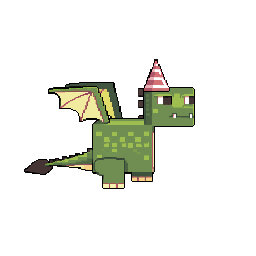
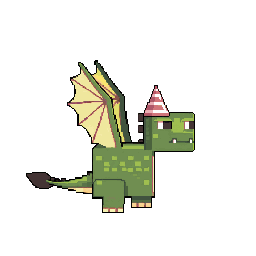
Give the dragon a real wing beat and put four flames on the cherries
The old flap frames barely moved. These interpolate from the wings
spread out to a wings raised pose and play back down again, so the
wings sweep through a full beat. In the source art the body sinks as
the wings rise, which would drift the dragon away from its hitbox, so
each frame is anchored by its feet and only the wings travel.

The card now has four flames instead of seven, one on each corner
cherry, positioned from the cherry centres measured off cake.png.

Claude-Session: https://claude.ai/code/session_01PqLBVuxSQTGRvrFNQ3TZis

Changed region(s): [[0.0938, 0.2188, 0.7812, 0.8438]]

diff --git a/js/game.js b/js/game.js
@@ -556,7 +556,23 @@ var Game = (function () {
         box.h = bottom - box.y;
       }
     }
-    dragonAnim = { names: names, box: box };
+
+    /* The wings rise out of the top of the frame, and in the source art
+       the body sinks as they go. Anchor every frame by its feet so the
+       body stays put under the hitbox and only the wings move. */
+    var feet = [];
+    for (i = 0; i < names.length; i++) {
+      var fb = Sprites.bounds(names[i]);
+      feet.push(fb ? (fb.y + fb.h) - box.h : box.y);
+    }
+    /* The frames run from wings out to wings raised, so play them up and
+       back down again for a full beat instead of snapping back to the
+       start. The two end poses are not repeated at the turnaround. */
+    var seq = [];
+    for (i = 0; i < names.length; i++) seq.push(i);
+    for (i = names.length - 2; i > 0; i--) seq.push(i);
+
+    dragonAnim = { names: names, box: box, seq: seq, feet: feet };
     return dragonAnim;
   }
 
@@ -564,14 +580,22 @@ var Game = (function () {
     var anim = dragonFrames();
     if (anim && anim.box) {
       var box = anim.box;
-      var h = 66;
+      /* the box is tall enough for the raised wings, so scale up to keep
+         the body itself the size it was before the wings could lift */
+      var h = 86;
       var w = h * (box.w / box.h);
-      var fps = mode === "play" ? 14 : 9;
-      var sp = Sprites.get(anim.names[Math.floor(t * fps) % anim.names.length]);
+      /* about two full wing beats a second in flight, a little lazier
+         while he is hovering waiting to start */
+      var fps = mode === "play" ? 24 : 16;
+      var seq = anim.seq;
+      var frame = seq[Math.floor(t * fps) % seq.length];
+      var sp = Sprites.get(anim.names[frame]);
       ctx.save();
       ctx.translate(dragonX(), dragon.y);
       ctx.rotate(dragon.rot);
-      if (sp) ctx.drawImage(sp, box.x, box.y, box.w, box.h, -w / 2, -h / 2, w, h);
+      if (sp) {
+        ctx.drawImage(sp, box.x, anim.feet[frame], box.w, box.h, -w / 2, -h / 2, w, h);
+      }
       ctx.restore();
       return;
     }

diff --git a/js/main.js b/js/main.js
@@ -50,24 +50,23 @@
     }
   }
 
-  /* Where each flame sits on the cake, as a percentage of the picture.
-     Two rows following the top of the cake so they read as candles
-     standing on it rather than sticks laid over it. */
+  /* One flame per cherry. These are the four cherry centres measured
+     off cake.png, as a percentage of the picture, nudged down a little
+     so each flame sits on top of its cherry. */
   var FLAME_SPOTS = [
-    [50, 21],
-    [36, 28], [64, 28],
-    [28, 35], [50, 34], [72, 35],
-    [50, 42]
+    [49.5, 21],     // back
+    [26.4, 32],     // left
+    [72.9, 32],     // right
+    [49.3, 44]      // front
   ];
 
   function buildCakeFlames() {
     var wrap = $("candles");
     if (!wrap || !Sprites.has("flame")) return;
-    var age = (window.PARTY && window.PARTY.age) || 7;
 
     wrap.innerHTML = "";
-    for (var i = 0; i < age; i++) {
-      var spot = FLAME_SPOTS[i % FLAME_SPOTS.length];
+    for (var i = 0; i < FLAME_SPOTS.length; i++) {
+      var spot = FLAME_SPOTS[i];
       var im = document.createElement("img");
       im.className = "pixel-flame";
       im.src = Sprites.src("flame");

diff --git a/sw.js b/sw.js
@@ -4,7 +4,7 @@
    Everything here is best effort: if caching fails for any reason the
    app still works, it just loads from the network like a normal page. */
 
-var CACHE_VERSION = "birthday-v8";
+var CACHE_VERSION = "birthday-v9";
 
 var FILES = [
   "./",

diff --git a/README.md b/README.md
@@ -76,8 +76,10 @@ art/            pixel art + the pixel font, all generated with PixelLab
 
 Every sprite in `art/` was generated with [PixelLab](https://pixellab.ai),
 along with `partypixel.ttf`, the pixel font the whole app is set in. The
-dragon's wing flap is a 7 frame animation (`dragon.png` plus `dragon-1..6.png`);
-drop any of those frames and it simply stops flapping.
+dragon's wing beat is a 7 frame animation (`dragon.png` plus `dragon-1..6.png`)
+that sweeps the wings from spread out to raised and plays back down again;
+drop any of those frames and it simply stops flapping. Each frame is anchored
+by the dragon's feet so only the wings move, not the body.
 
 The candle columns are built from `candle.png`: the rounded lip goes at the tip
 and one full turn of the spiral is repeated down the shaft, so the stripe runs
